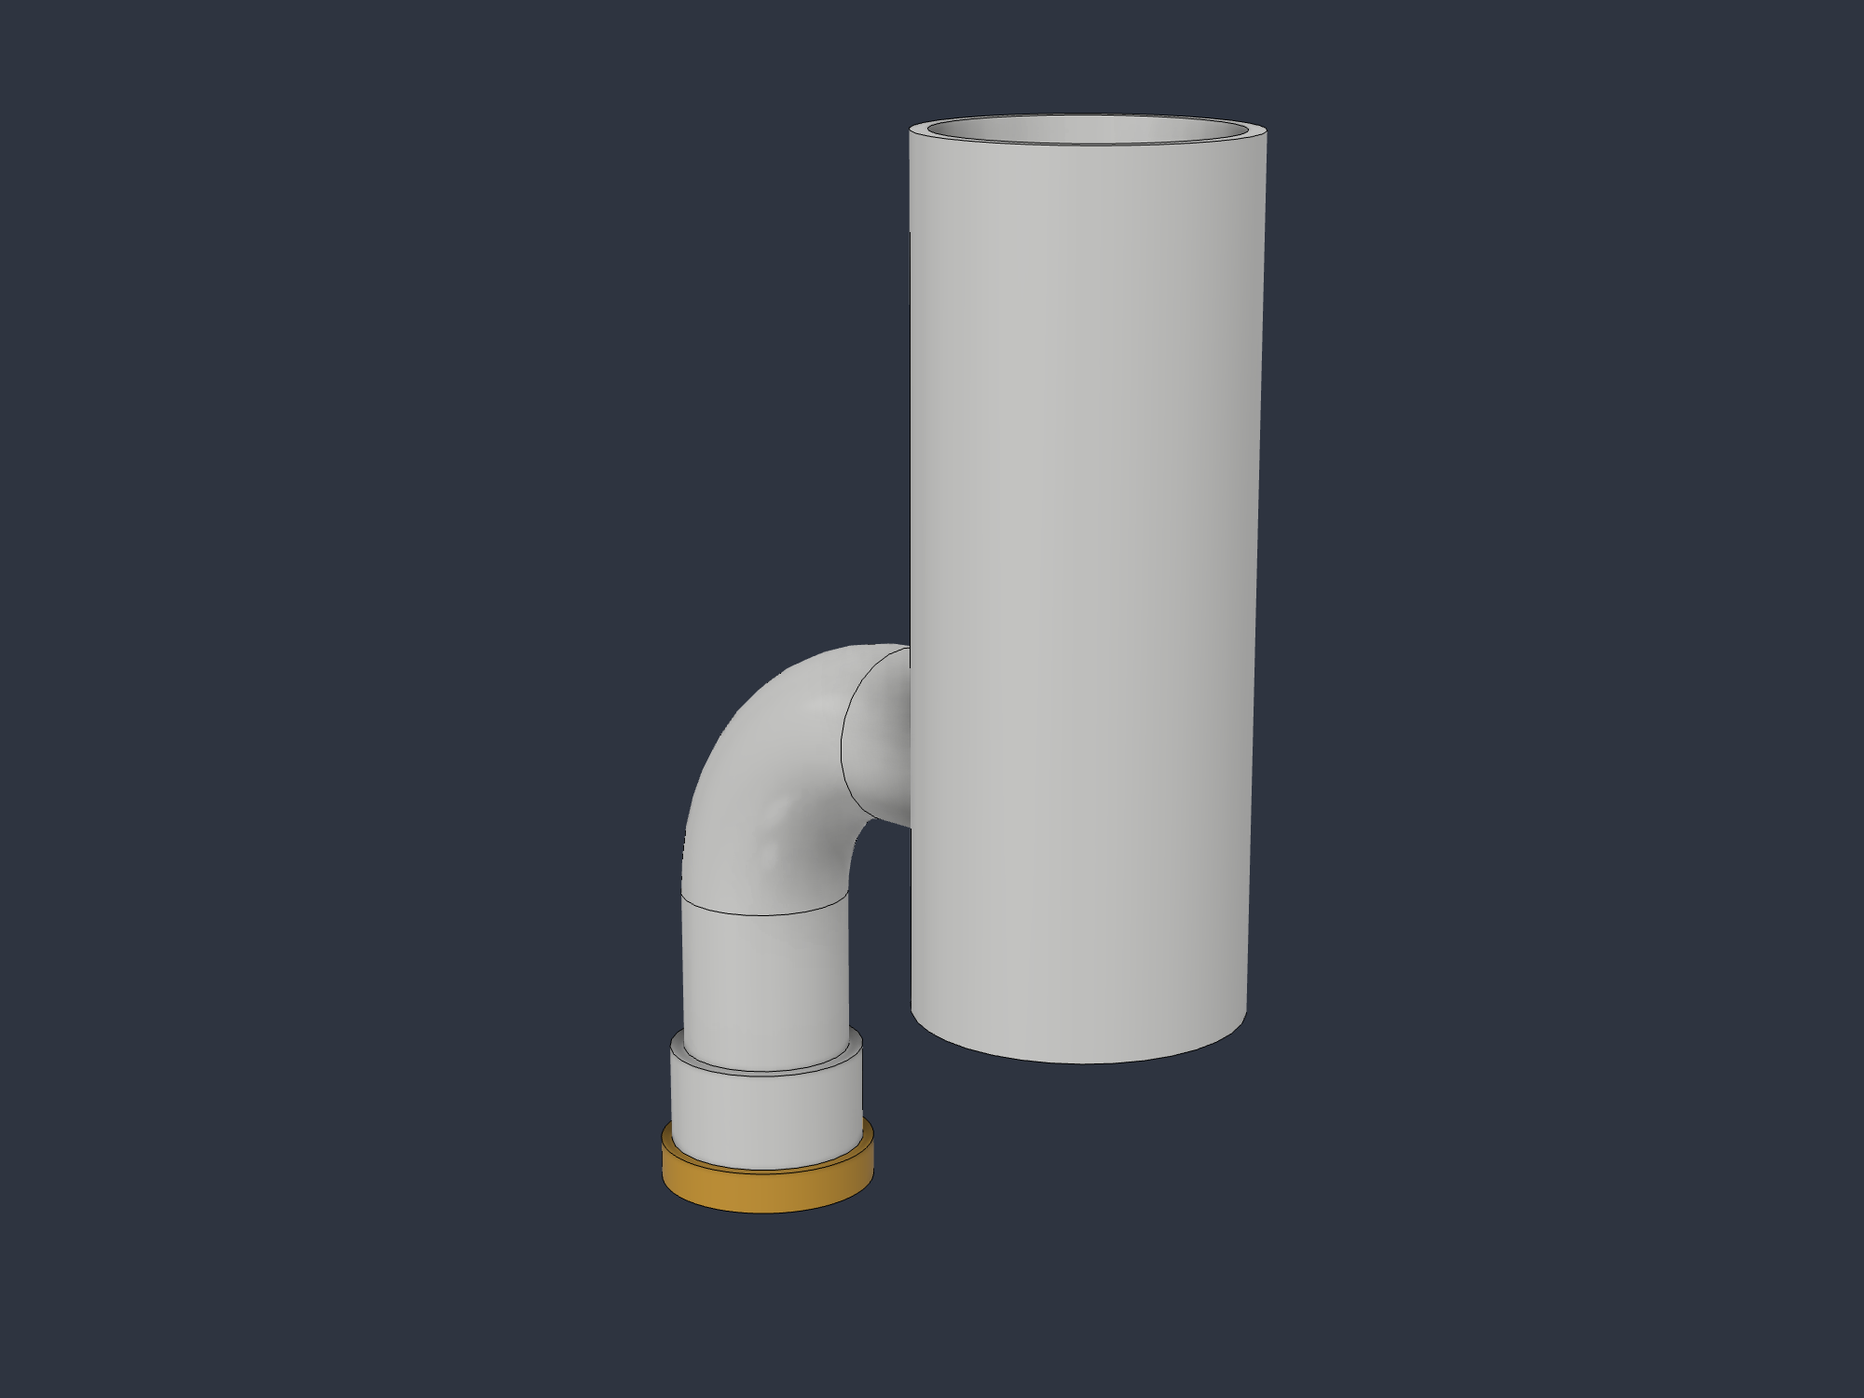
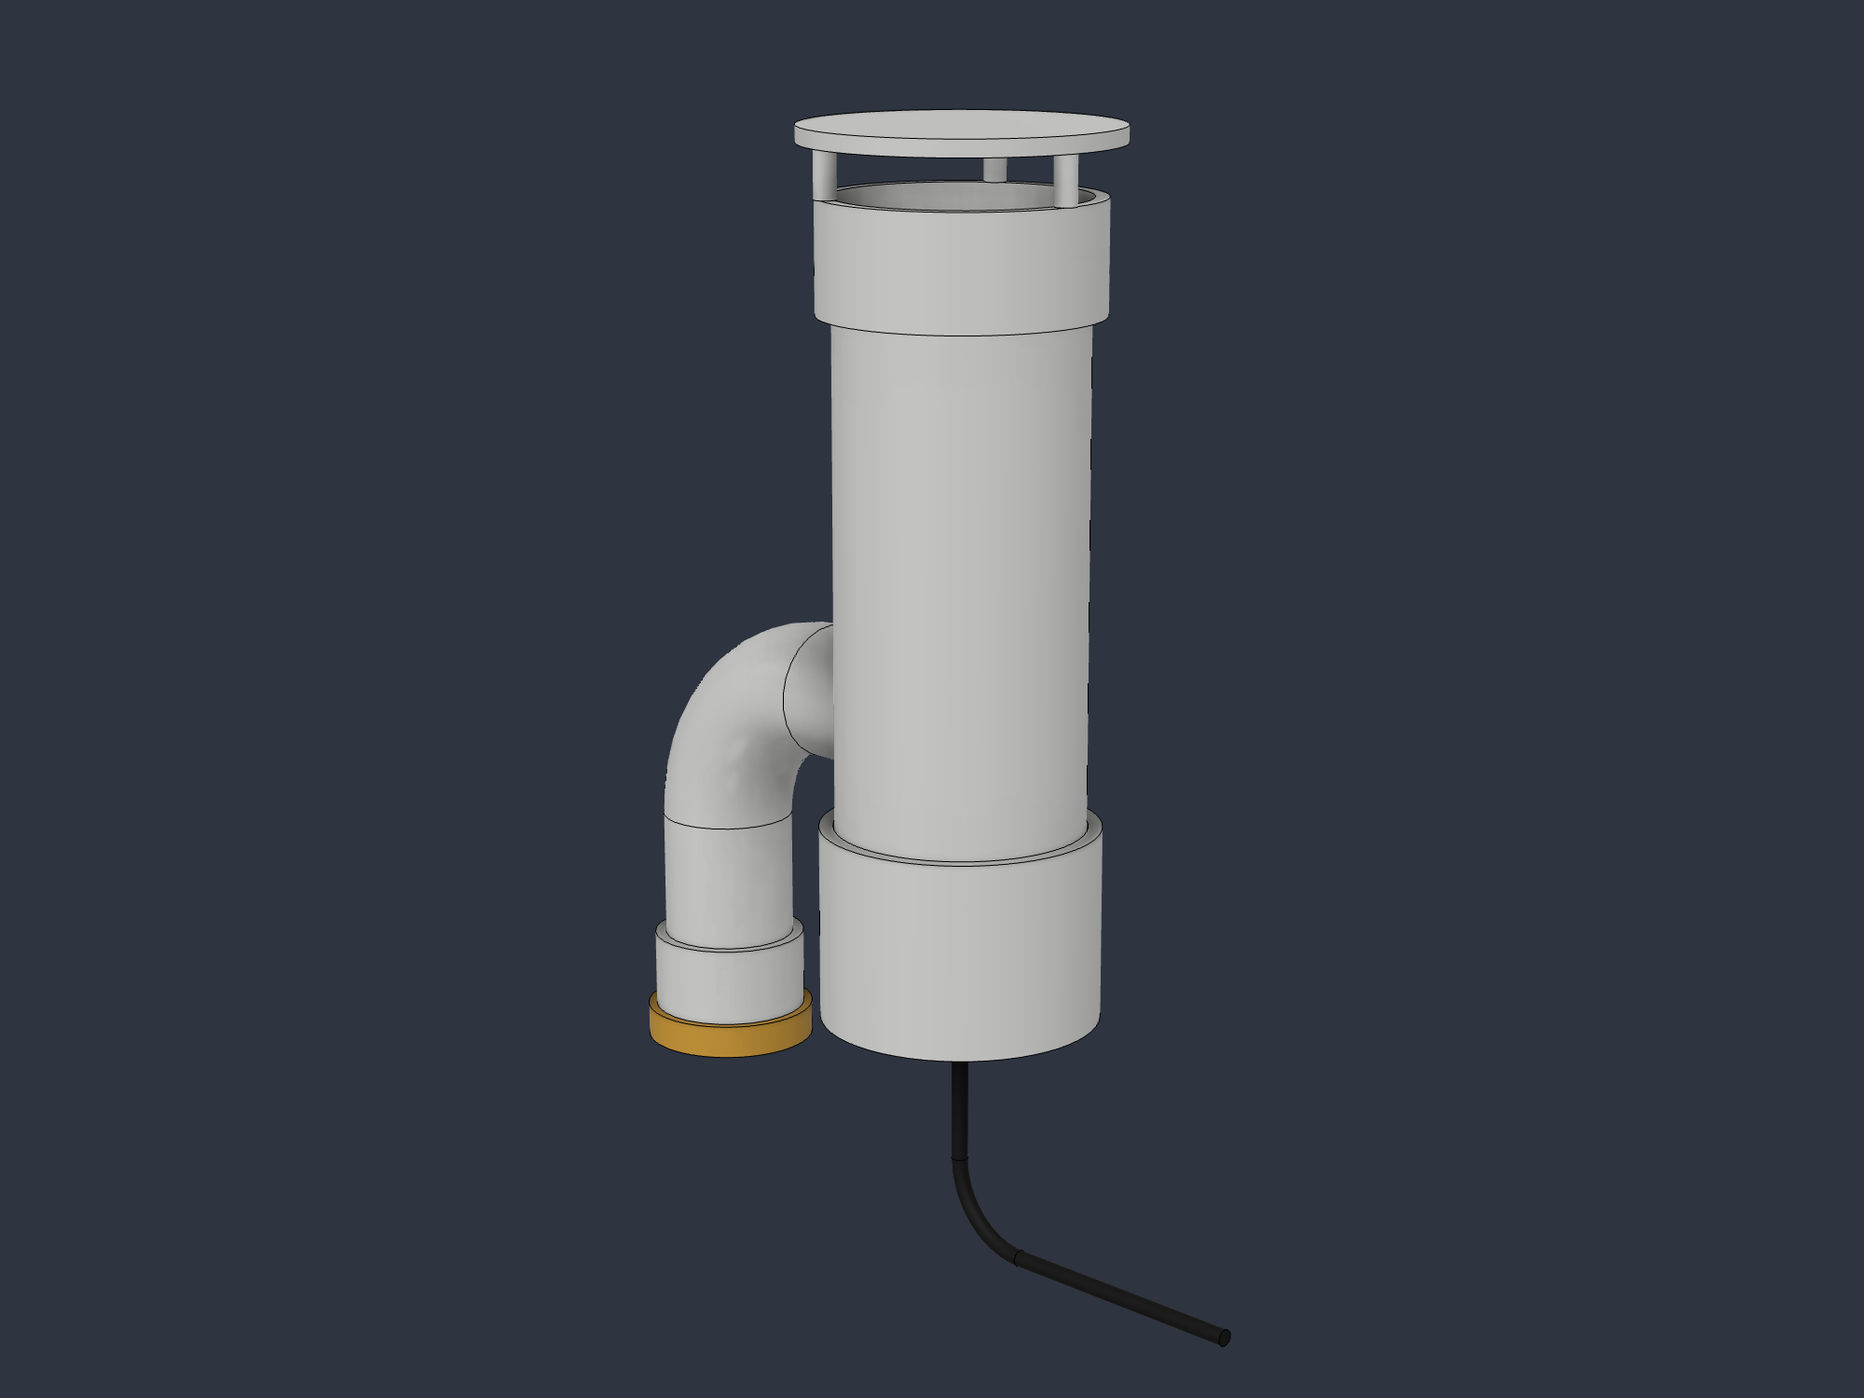
hardware: model the caps, gland and PoE cable
The caps are purchased, but modelling them makes the assembly renders
show the thing you actually hang on the wall, and lets the clearances
above and below the run be checked against real fittings.

The mushroom cap is built the way it works rather than as a lid: a
skirt clamping the pipe with the crown raised on three posts, so air
leaving the pipe rises inside the skirt and exits radially through the
18 mm annulus. A crown sitting down on the rim would seal the vent it
exists to provide.

The drain cap slips 25 mm over the pipe end with eight drain holes on a
28 mm radius and a centre pass-through, and the PoE cable sweeps out of
it with the drip loop below the enclosure - which is the whole point of
a drip loop and easy to get backwards.

Claude-Session: https://claude.ai/code/session_01KBwUcRoQgC2qoPoadKhhvs

Changed region(s): [[0.341, 0.0613, 0.682, 0.92], [0.589, 0.92, 0.651, 0.9507], [0.651, 0.9507, 0.682, 0.9813]]

diff --git a/hardware/mic-housing/fusion_build.py b/hardware/mic-housing/fusion_build.py
@@ -823,6 +823,162 @@ def build_cable_riser(root):
     return comp
 
 
+# ---------------------------------------------------------------- 08_caps.py
+
+
+CAPS = {
+    # Both caps are PURCHASED, not printed. They are modelled anyway so the
+    # assembly renders show the thing you actually hang on the wall, and so the
+    # clearances above and below the run can be checked against real fittings.
+    "skirt_id": 89.7,        # slips over the 88.9 run OD
+    "skirt_od": 99.7,
+    "skirt_len": 40.0,
+    "skirt_drop": 25.0,      # how far the skirt reaches down over the pipe
+    "crown_od": 112.0,
+    "crown_thick": 6.0,
+    "crown_gap": 18.0,       # the annular exit: this is what vents the tube
+    "post_count": 3,
+    "post_dia": 8.0,
+    "post_r": 47.3,          # on the skirt's wall, midway across the rim
+    "drain_base": 8.0,
+    "drain_wall_len": 62.0,
+    "drain_drop": 45.0,      # base sits this far below the pipe end
+    "hole_dia": 8.0,
+    "hole_count": 8,
+    "hole_r": 28.0,
+    "poe_dia": 6.0,
+}
+
+
+def build_vent_cap(root):
+    """Oatey-style mushroom vent cap for the top of the run. PURCHASED.
+
+    A skirt clamps over the pipe and a raised crown sits above it on three
+    posts. Air leaves the pipe, rises inside the skirt and exits radially
+    through the `crown_gap` annulus - which is why the crown has to stand off
+    rather than sit down on the rim. Rain cannot fall straight in because the
+    crown overhangs the whole opening.
+    """
+    p, c = PARAMS, CAPS
+    comp = new_component(root, "PVC - mushroom vent cap (purchased)")
+    x_run = PARAMS["bend_radius"] + PARAMS["leg_cable"]
+    y_skirt = TEE["run_top"] - c["skirt_drop"]
+    y_rim = y_skirt + c["skirt_len"]
+    y_crown = y_rim + c["crown_gap"]
+
+    sk = comp.sketches.add(mouth_plane(comp, y_skirt))
+    body = extrude(comp, ring_profile(sk, c["skirt_od"], c["skirt_id"], cx=x_run),
+                   c["skirt_len"], NEW).bodies.item(0)
+    body.name = "mushroom vent cap"
+
+    psk = comp.sketches.add(mouth_plane(comp, y_rim))
+    for i in range(c["post_count"]):
+        theta = 2.0 * math.pi * i / c["post_count"]
+        psk.sketchCurves.sketchCircles.addByCenterRadius(
+            pt(x_run + c["post_r"] * math.cos(theta),
+               c["post_r"] * math.sin(theta), 0),
+            mm(c["post_dia"] / 2.0))
+    posts = adsk.core.ObjectCollection.create()
+    for prof in psk.profiles:
+        posts.add(prof)
+    ex = comp.features.extrudeFeatures
+    ei = ex.createInput(posts, JOIN)
+    ei.setDistanceExtent(False, vi(c["crown_gap"]))
+    ex.add(ei)
+
+    csk = comp.sketches.add(mouth_plane(comp, y_crown))
+    extrude(comp, circle_profile(csk, c["crown_od"], cx=x_run),
+            c["crown_thick"], JOIN)
+
+    if comp.bRepBodies.count != 1:
+        raise RuntimeError("vent cap left %d bodies, expected 1"
+                           % comp.bRepBodies.count)
+    report(comp)
+    return comp
+
+
+def build_drain_cap(root):
+    """Plain PVC cap for the bottom, drilled and screened. PURCHASED.
+
+    Solid, this would pool overnight condensate directly under the Pi with
+    nowhere to go - drainage is the reason it is drilled, not airflow. The
+    centre hole passes the PoE cable through its gland.
+    """
+    p, c = PARAMS, CAPS
+    comp = new_component(root, "PVC - drain cap (purchased)")
+    x_run = PARAMS["bend_radius"] + PARAMS["leg_cable"]
+    y_base = TEE["run_bot"] - c["drain_drop"]
+    y_wall = y_base + c["drain_base"]
+
+    bsk = comp.sketches.add(mouth_plane(comp, y_base))
+    body = extrude(comp, circle_profile(bsk, c["skirt_od"], cx=x_run),
+                   c["drain_base"], NEW).bodies.item(0)
+    body.name = "drain cap"
+
+    wsk = comp.sketches.add(mouth_plane(comp, y_wall))
+    extrude(comp, ring_profile(wsk, c["skirt_od"], c["skirt_id"], cx=x_run),
+            c["drain_wall_len"], JOIN)
+
+    # Drain holes on a bolt circle, plus the centre pass-through for the cable.
+    hsk = comp.sketches.add(mouth_plane(comp, y_base))
+    for i in range(c["hole_count"]):
+        theta = 2.0 * math.pi * i / c["hole_count"]
+        hsk.sketchCurves.sketchCircles.addByCenterRadius(
+            pt(x_run + c["hole_r"] * math.cos(theta),
+               c["hole_r"] * math.sin(theta), 0),
+            mm(c["hole_dia"] / 2.0))
+    hsk.sketchCurves.sketchCircles.addByCenterRadius(
+        pt(x_run, 0, 0), mm(c["poe_dia"] / 2.0 + 1.0))
+    holes = adsk.core.ObjectCollection.create()
+    for prof in hsk.profiles:
+        holes.add(prof)
+    ex = comp.features.extrudeFeatures
+    ei = ex.createInput(holes, CUT)
+    ei.setDistanceExtent(False, vi(c["drain_base"]))
+    ex.add(ei)
+
+    report(comp)
+    return comp
+
+
+def build_poe_cable(root):
+    """PoE cable leaving the drain cap, with the drip loop outside.
+
+    Swept the same way as the mic branch: a line -> arc -> line centreline in
+    the XY plane, with the section taken on a plane at the path's start.
+    """
+    p, c = PARAMS, CAPS
+    comp = new_component(root, "Reference - PoE cable")
+    x_run = PARAMS["bend_radius"] + PARAMS["leg_cable"]
+    y_start = TEE["run_bot"] - c["drain_drop"]
+    y_knee = y_start - 55.0
+    radius = 30.0
+
+    sk = comp.sketches.add(comp.xYConstructionPlane)
+    lines, arcs = sk.sketchCurves.sketchLines, sk.sketchCurves.sketchArcs
+    first = lines.addByTwoPoints(pt(x_run, y_start, 0), pt(x_run, y_knee, 0))
+    arc = arcs.addByCenterStartSweep(pt(x_run + radius, y_knee, 0),
+                                     first.endSketchPoint, math.pi / 2.0)
+    knee = pt(x_run, y_knee, 0)
+    a0, a1 = arc.startSketchPoint, arc.endSketchPoint
+    far = a0 if a0.geometry.distanceTo(knee) > a1.geometry.distanceTo(knee) else a1
+    lines.addByTwoPoints(far, pt(x_run + radius + 95.0, y_knee - radius, 0))
+
+    path = comp.features.createPath(first, True)
+    if path.count != 3:
+        raise RuntimeError("PoE centreline chained %d segments, expected 3"
+                           % path.count)
+
+    psk = comp.sketches.add(mouth_plane(comp, y_start))
+    circle_profile(psk, c["poe_dia"], cx=x_run)
+    sweeps = comp.features.sweepFeatures
+    body = sweeps.add(sweeps.createInput(
+        psk.profiles.item(0), path, NEW)).bodies.item(0)
+    body.name = "PoE cable"
+    report(comp)
+    return comp
+
+
 # -------------------------------------------------------------- 98_render.py
 
 
@@ -1051,6 +1207,11 @@ def run(_context: str):
     build_pi_sled(root)
     build_pi_board(root)
     build_cable_riser(root)
+
+    # Purchased, but modelled so the assembly renders show the real thing.
+    build_vent_cap(root)
+    build_drain_cap(root)
+    build_poe_cable(root)
 
     paint_all(app, design)
     for path in render_all(app, design):

diff --git a/hardware/mic-housing/parts/08_caps.py b/hardware/mic-housing/parts/08_caps.py
@@ -1,0 +1,151 @@
+CAPS = {
+    # Both caps are PURCHASED, not printed. They are modelled anyway so the
+    # assembly renders show the thing you actually hang on the wall, and so the
+    # clearances above and below the run can be checked against real fittings.
+    "skirt_id": 89.7,        # slips over the 88.9 run OD
+    "skirt_od": 99.7,
+    "skirt_len": 40.0,
+    "skirt_drop": 25.0,      # how far the skirt reaches down over the pipe
+    "crown_od": 112.0,
+    "crown_thick": 6.0,
+    "crown_gap": 18.0,       # the annular exit: this is what vents the tube
+    "post_count": 3,
+    "post_dia": 8.0,
+    "post_r": 47.3,          # on the skirt's wall, midway across the rim
+    "drain_base": 8.0,
+    "drain_wall_len": 62.0,
+    "drain_drop": 45.0,      # base sits this far below the pipe end
+    "hole_dia": 8.0,
+    "hole_count": 8,
+    "hole_r": 28.0,
+    "poe_dia": 6.0,
+}
+
+
+def build_vent_cap(root):
+    """Oatey-style mushroom vent cap for the top of the run. PURCHASED.
+
+    A skirt clamps over the pipe and a raised crown sits above it on three
+    posts. Air leaves the pipe, rises inside the skirt and exits radially
+    through the `crown_gap` annulus - which is why the crown has to stand off
+    rather than sit down on the rim. Rain cannot fall straight in because the
+    crown overhangs the whole opening.
+    """
+    p, c = PARAMS, CAPS
+    comp = new_component(root, "PVC - mushroom vent cap (purchased)")
+    x_run = PARAMS["bend_radius"] + PARAMS["leg_cable"]
+    y_skirt = TEE["run_top"] - c["skirt_drop"]
+    y_rim = y_skirt + c["skirt_len"]
+    y_crown = y_rim + c["crown_gap"]
+
+    sk = comp.sketches.add(mouth_plane(comp, y_skirt))
+    body = extrude(comp, ring_profile(sk, c["skirt_od"], c["skirt_id"], cx=x_run),
+                   c["skirt_len"], NEW).bodies.item(0)
+    body.name = "mushroom vent cap"
+
+    psk = comp.sketches.add(mouth_plane(comp, y_rim))
+    for i in range(c["post_count"]):
+        theta = 2.0 * math.pi * i / c["post_count"]
+        psk.sketchCurves.sketchCircles.addByCenterRadius(
+            pt(x_run + c["post_r"] * math.cos(theta),
+               c["post_r"] * math.sin(theta), 0),
+            mm(c["post_dia"] / 2.0))
+    posts = adsk.core.ObjectCollection.create()
+    for prof in psk.profiles:
+        posts.add(prof)
+    ex = comp.features.extrudeFeatures
+    ei = ex.createInput(posts, JOIN)
+    ei.setDistanceExtent(False, vi(c["crown_gap"]))
+    ex.add(ei)
+
+    csk = comp.sketches.add(mouth_plane(comp, y_crown))
+    extrude(comp, circle_profile(csk, c["crown_od"], cx=x_run),
+            c["crown_thick"], JOIN)
+
+    if comp.bRepBodies.count != 1:
+        raise RuntimeError("vent cap left %d bodies, expected 1"
+                           % comp.bRepBodies.count)
+    report(comp)
+    return comp
+
+
+def build_drain_cap(root):
+    """Plain PVC cap for the bottom, drilled and screened. PURCHASED.
+
+    Solid, this would pool overnight condensate directly under the Pi with
+    nowhere to go - drainage is the reason it is drilled, not airflow. The
+    centre hole passes the PoE cable through its gland.
+    """
+    p, c = PARAMS, CAPS
+    comp = new_component(root, "PVC - drain cap (purchased)")
+    x_run = PARAMS["bend_radius"] + PARAMS["leg_cable"]
+    y_base = TEE["run_bot"] - c["drain_drop"]
+    y_wall = y_base + c["drain_base"]
+
+    bsk = comp.sketches.add(mouth_plane(comp, y_base))
+    body = extrude(comp, circle_profile(bsk, c["skirt_od"], cx=x_run),
+                   c["drain_base"], NEW).bodies.item(0)
+    body.name = "drain cap"
+
+    wsk = comp.sketches.add(mouth_plane(comp, y_wall))
+    extrude(comp, ring_profile(wsk, c["skirt_od"], c["skirt_id"], cx=x_run),
+            c["drain_wall_len"], JOIN)
+
+    # Drain holes on a bolt circle, plus the centre pass-through for the cable.
+    hsk = comp.sketches.add(mouth_plane(comp, y_base))
+    for i in range(c["hole_count"]):
+        theta = 2.0 * math.pi * i / c["hole_count"]
+        hsk.sketchCurves.sketchCircles.addByCenterRadius(
+            pt(x_run + c["hole_r"] * math.cos(theta),
+               c["hole_r"] * math.sin(theta), 0),
+            mm(c["hole_dia"] / 2.0))
+    hsk.sketchCurves.sketchCircles.addByCenterRadius(
+        pt(x_run, 0, 0), mm(c["poe_dia"] / 2.0 + 1.0))
+    holes = adsk.core.ObjectCollection.create()
+    for prof in hsk.profiles:
+        holes.add(prof)
+    ex = comp.features.extrudeFeatures
+    ei = ex.createInput(holes, CUT)
+    ei.setDistanceExtent(False, vi(c["drain_base"]))
+    ex.add(ei)
+
+    report(comp)
+    return comp
+
+
+def build_poe_cable(root):
+    """PoE cable leaving the drain cap, with the drip loop outside.
+
+    Swept the same way as the mic branch: a line -> arc -> line centreline in
+    the XY plane, with the section taken on a plane at the path's start.
+    """
+    p, c = PARAMS, CAPS
+    comp = new_component(root, "Reference - PoE cable")
+    x_run = PARAMS["bend_radius"] + PARAMS["leg_cable"]
+    y_start = TEE["run_bot"] - c["drain_drop"]
+    y_knee = y_start - 55.0
+    radius = 30.0
+
+    sk = comp.sketches.add(comp.xYConstructionPlane)
+    lines, arcs = sk.sketchCurves.sketchLines, sk.sketchCurves.sketchArcs
+    first = lines.addByTwoPoints(pt(x_run, y_start, 0), pt(x_run, y_knee, 0))
+    arc = arcs.addByCenterStartSweep(pt(x_run + radius, y_knee, 0),
+                                     first.endSketchPoint, math.pi / 2.0)
+    knee = pt(x_run, y_knee, 0)
+    a0, a1 = arc.startSketchPoint, arc.endSketchPoint
+    far = a0 if a0.geometry.distanceTo(knee) > a1.geometry.distanceTo(knee) else a1
+    lines.addByTwoPoints(far, pt(x_run + radius + 95.0, y_knee - radius, 0))
+
+    path = comp.features.createPath(first, True)
+    if path.count != 3:
+        raise RuntimeError("PoE centreline chained %d segments, expected 3"
+                           % path.count)
+
+    psk = comp.sketches.add(mouth_plane(comp, y_start))
+    circle_profile(psk, c["poe_dia"], cx=x_run)
+    sweeps = comp.features.sweepFeatures
+    body = sweeps.add(sweeps.createInput(
+        psk.profiles.item(0), path, NEW)).bodies.item(0)
+    body.name = "PoE cable"
+    report(comp)
+    return comp

diff --git a/hardware/mic-housing/parts/99_run.py b/hardware/mic-housing/parts/99_run.py
@@ -22,6 +22,11 @@ def run(_context: str):
     build_pi_board(root)
     build_cable_riser(root)
 
+    # Purchased, but modelled so the assembly renders show the real thing.
+    build_vent_cap(root)
+    build_drain_cap(root)
+    build_poe_cable(root)
+
     paint_all(app, design)
     for path in render_all(app, design):
         print("  ->", path)

diff --git a/hardware/mic-housing/PROGRESS.md b/hardware/mic-housing/PROGRESS.md
@@ -1,13 +1,14 @@
 # Mic housing Fusion build - progress
 
-**State: reducing-tee assembly complete.** Ten bodies build, six documentation
+**State: reducing-tee assembly complete.** Thirteen bodies build, six documentation
 PNGs are written, and every part below was checked against a render before being
 committed to disk.
 
 Both caps are **purchased, not printed** - an Oatey mushroom vent cap on top and
-a drilled, screened PVC cap below - so they are deliberately not modelled. The
-printed parts are the capsule holder, vent carrier, retainer/drip lip and Pi
-sled.
+a drilled, screened PVC cap below. They are modelled anyway, so the assembly
+renders show the thing you actually hang on the wall and so the clearances above
+and below the run can be checked against real fittings. The parts you print are
+the capsule holder, vent carrier, retainer/drip lip and Pi sled.
 
 `fusion_build.py` is the deliverable. It is `parts/*.py` concatenated in name
 order, separated by two blank lines and a `# ---- <filename>` banner:
@@ -51,6 +52,9 @@ fitting. Parts 2-5 are unaffected; they live in the branch bore regardless.
 | PVC 3x3x1-1/2 reducing tee | `06_tee.py` | 373558 mm3, one body, bbox x[-28.08, 166.6] y[0, 300] z[+-44.45]. The x and y minima are the checks that matter: -28.08 is exactly the 56.16 hub radius, and y=0 means the mouth survived the socket cut. |
 | Pi sled | `07_pi_sled.py` | One welded body, 29901 mm3, bbox x[82.47, 161.83] y[175, 267] z[+-39.68]. Two ribs at 79.36 press-fit the 79.76 bore; six 16 mm lightening cutouts. |
 | Pi board | `07_pi_sled.py` | Reference. 2730 mm3 = 65 x 30 x 1.4 exactly, standing off the spine at z 5.5..6.9. |
+| Mushroom vent cap | `08_caps.py` | Purchased, modelled. 121328 mm3, one body, bbox y[275, 339] x[66.15, 178.15] = the 112 crown centred on the run axis. Skirt clamps the pipe, crown stands off on three posts so air exits radially. |
+| Drain cap | `08_caps.py` | Purchased, modelled. 151064 mm3, bbox y[25, 95]. Slips 25 mm over the pipe end at y=70; eight 8 mm drain holes on a 28 radius plus a centre pass-through for the cable. |
+| PoE cable | `08_caps.py` | Reference. Line-arc-line sweep out of the drain cap to y=-63, i.e. the drip loop sits below the enclosure. |
 | Cable riser | `07_pi_sled.py` | Reference. Runs the branch cable from where the sweep ends at the run axis (y=132.15) up to the lower rib (y=200). |
 | PVC 1-1/2" DWV 90 elbow | `01_elbow.py` | 126949 mm3, bbox x[-28.08, 122.15] y[0, 160.23] z[+-28.08]. Renders as a DWV 90 with a hub at each end, mouth facing -Y, cable leg +X. |
 | Capsule holder | `02_holder.py` | One joined body, 3029 mm3, y 32..38, aperture 80.8% open. Ring, three spokes and hub all read in the mouth render. |

diff --git a/docs/outdoor-deployment.md b/docs/outdoor-deployment.md
@@ -263,12 +263,14 @@ bore.](img/mic-housing-tee-variant.svg)
 
 As modelled — 300 mm tall overall, 3.5" across:
 
-![Fusion render of the assembled reducing tee: a white PVC 3 inch vertical run with the
-1.5 inch branch turning down, mouth facing the ground.](img/tee-assembly.png)
+![Fusion render of the assembled reducing tee: a white PVC 3 inch vertical run with a
+mushroom vent cap on top standing off on three posts, a drilled cap at the bottom with the
+PoE cable looping away below it, and the 1.5 inch branch turning down with the printed
+drip lip at its mouth.](img/tee-assembly.png)
 
 ![The same view with the PVC at 25% opacity, showing the yellow printed Pi sled and its
-green board in the vertical run, the cable dropping to the branch, and the mic parts at
-the mouth.](img/tee-cutaway.png)
+green board in the vertical run, the cable dropping to the branch, the mic parts at the
+mouth, and the inlet plenum inside the bottom cap.](img/tee-cutaway.png)
 
 ![Close view of the Pi bay: the printed sled's two ribs press-fitting the bore, the
 lightened spine, and the Pi board standing off it.](img/tee-pi-bay.png)
